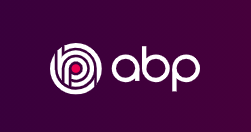
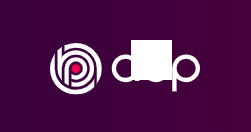
添加功能 1.添加前端滑条功能 2.添加前端演示页面

Changed region(s): [[0.502, 0.303, 0.6972, 0.6061]]

diff --git a/web/abp-captcha/src/component/captcha-slider/captcha-slider.component.ts b/web/abp-captcha/src/component/captcha-slider/captcha-slider.component.ts
@@ -1,15 +1,118 @@
-import { Component, OnInit } from '@angular/core';
+import { NgStyle } from '@angular/common';
+import { Component, Directive, ElementRef, HostListener, OnInit, ViewChild } from '@angular/core';
+import { timeStamp } from 'console';
 
 @Component({
   selector: 'app-captcha-slider',
   templateUrl: './captcha-slider.component.html',
   styleUrls: ['./captcha-slider.component.scss']
 })
+
 export class CaptchaSliderComponent implements OnInit {
+
+  @ViewChild('sliderbtn') 
+  sliderbtn!: ElementRef;
+  @ViewChild('slidercontain') 
+  slidercontain!: ElementRef;
+  public diffX: any;
+  public diffY: any;
+  public left: any;
+  public width: any;
+  private slider = false;
+  private checkData = [0];
+  // 是否验证成功 -1:未开启验证 0:验证中 1:验证成功 2:验证失败
+  public checkSuccess = -1;
+  //public top: any;
 
   constructor() { }
 
   ngOnInit() {
   }
+  
+  @HostListener('mousedown', ['$event'])
+  onMousedown(event: MouseEvent) {
+    console.log('mousedown');
+    this.slider = true;
+    this.diffX = event.clientX - this.sliderbtn.nativeElement.offsetLeft;
+    this.diffY = event.clientY - this.sliderbtn.nativeElement.offsetTop;
+  }
 
+  /**
+   * 鼠标移动
+   * @param event 
+   */
+  @HostListener('mousemove', ['$event'])
+  onMousemove(event: MouseEvent) {
+    console.log('onMousemove');
+    if (!this.slider) {
+      return;
+    }
+    var event = event || window.event;
+    var moveX = event.clientX - this.diffX;
+    var moveY = event.clientY - this.diffY;
+
+    // console.log('moveX:' + moveX + 
+    // 'Width:' + this.sliderbtn.nativeElement.style.width + 
+    // '差值：' + (this.slidercontain.nativeElement.offsetWidth - moveX));
+
+    // // 如果挪出滑条区域，停止滑动
+    // if (moveY <= -15 || moveY >= 15) {
+    //   this.closeSlider();
+    //   return;
+    // }
+
+    // 如果推拽到底
+    if((this.slidercontain.nativeElement.offsetWidth - moveX) < 40){
+      this.width = this.slidercontain.nativeElement.offsetWidth;
+      this.successSlider();
+      return;
+    }
+
+    // 移动
+    if(moveX < 0){
+        moveX = 0
+    } else if(moveX > this.slidercontain.nativeElement.offsetWidth - this.sliderbtn.nativeElement.offsetWidth){
+        moveX = this.slidercontain.nativeElement.offsetWidth - this.sliderbtn.nativeElement.offsetWidth
+    }
+
+    this.left = moveX;
+    this.width = moveX;
+    this.checkData.push(moveX);
+  }
+
+  /**
+   * 鼠标离开
+   * @param event 
+   */
+  @HostListener('mouseup', ['$event'])
+  onMouseup(event: MouseEvent) {
+    var event = event || window.event;
+    var moveX = event.clientX - this.diffX;
+
+    moveX = 0;
+    this.closeSlider();
+    console.log('mouseup:left:' + this.left);
+  }
+
+  /**
+   * 滑条关闭
+   */
+  private closeSlider(){
+    this.left = 0;
+    if (this.checkSuccess != 1) {
+      this.width = 0;
+    }
+    this.slider = false;
+  }
+
+  /**
+   * 验证成功
+   */
+  private successSlider(){
+    this.checkSuccess = 1;
+    console.log('mouseup:left:' + this.checkData);
+    setTimeout(() => {
+      this.closeSlider();
+    }, 1000);
+  }
 }

diff --git a/web/abp-captcha/src/component/captcha-slider/captcha-slider.component.html b/web/abp-captcha/src/component/captcha-slider/captcha-slider.component.html
@@ -1,5 +1,11 @@
-<div id="captcha-slider">
-  <div id="slider-btn">
+<div #slidercontain id="captcha-slider">
+  <div #silderindicator id="slider-indicator" [ngStyle]="{'width.px': width}">
+    <div class="indicator-success" *ngIf="checkSuccess == 1"> 
+       <svg *ngIf="checkSuccess == 1" t="1613468304279" class="icon" viewBox="0 0 1024 1024" version="1.1" xmlns="http://www.w3.org/2000/svg" p-id="2216" width="32" height="32"><path d="M897.5 159.1l-384.4-92-382.7 92-2 415.7v0.4c0 211.8 383.5 383.5 383.5 383.5S895.4 787 895.4 575.2v-0.4l2.1-415.7zM785.1 464h-0.5V575.6c-0.1 28.1-19.4 58.8-35.5 79.6-24.9 32.1-61.2 65.6-107.7 99.6C594 789.4 545.7 817.1 512 835c-33-17.5-79.8-44.4-126.7-78.3-47.3-34.2-84.1-68-109.6-100.5-16.5-21.1-36.2-52.1-36.3-80.6v-0.8l1.6-328.1 272.3-65.4 273 65.3-1.2 217.4z" p-id="2217" fill="#009966"></path><path d="M381.3 437.7l-70.7 70.7 162.2 162.2 258.9-258.9L661 341 472.8 529.2z" p-id="2218" fill="#009966"></path></svg>
+       <span style="margin-left: 4px;">验证成功</span>
+    </div>
+  </div>
+  <div #sliderbtn id="slider-btn" [ngStyle]="{'left.px': left}"  *ngIf="checkSuccess < 1">
     <svg t="1613189988319" class="icon" viewBox="0 0 1024 1024" version="1.1" xmlns="http://www.w3.org/2000/svg" p-id="1127" width="24" height="24">
       <path d="M462.08 192a47.36 47.36 0 0 0 0 64l256 256-256 256a47.36 47.36 0 1 0 64 64l288.64-288.64A50.56 50.56 0 0 0 832 512a47.36 47.36 0 0 0-14.08-33.28L529.28 192a47.36 47.36 0 0 0-67.2 0z" p-id="1128" fill="#707070"></path><path d="M206.08 192a47.36 47.36 0 0 0 0 64l256 256-256 256a47.36 47.36 0 1 0 64 64l291.84-286.08A50.56 50.56 0 0 0 576 512a47.36 47.36 0 0 0-14.08-33.28L273.28 192a47.36 47.36 0 0 0-67.2 0z" p-id="1129" fill="#707070">
       </path>

diff --git a/web/abp-captcha/src/component/captcha-slider/captcha-slider.component.scss b/web/abp-captcha/src/component/captcha-slider/captcha-slider.component.scss
@@ -4,10 +4,36 @@
     background-color: #f7f9fa;
     border:  1px solid #e4e7eb;
     border-radius:  2px;
+    position: relative;
+
+    #slider-indicator {
+        width: 0px;
+        height: 40px;
+        border: 1px solid #3ee01d;
+        //border-right: 0px;
+        background-color: rgb(185, 245, 185);
+        position: absolute;
+        display: flex;
+        flex-direction: column;
+        justify-content: center;
+        align-items: center;
+
+        .indicator-success {
+            display: flex;
+            flex-direction: row;
+            justify-content: center;
+            align-items: center;
+            line-height: 100%;
+            color: green;
+        }
+    }
 
     #slider-btn {
         height: 40px;
         width: 40px;
+        position: absolute;
+        top: 0;
+        left: 0;
         background-color: #fff;
         box-shadow: 0 0 3px rgb(0 0 0 / 30%);
         border: 1px solid #cccccc;
@@ -18,7 +44,7 @@
     }
     
     #slider-btn:hover {
-        background-color: rgb(83, 133, 241);
+        background-color: rgb(132, 235, 132);
         cursor: pointer;
     }
 }

diff --git a/web/abp-captcha/src/component/captcha-jigsaw/captcha-jigsaw.component.scss b/web/abp-captcha/src/component/captcha-jigsaw/captcha-jigsaw.component.scss
@@ -21,8 +21,18 @@
             left:0;
             width: 45px;
             height: 100%;
-            background-color: rgb(69, 127, 236);
             z-index: 9999;
+
+            #operation-img {
+                width: 60px;
+                height: 60px;
+                position: absolute;
+                top: 27%;
+                left:0;
+                -moz-box-shadow:4px 4px 5px #ccc; 
+                -webkit-box-shadow:2px 2px 5px #ccc; 
+                box-shadow:2px 2px 5px rgb(145, 142, 142);
+            }
         }
     }
 

diff --git a/web/abp-captcha/src/component/captcha-jigsaw/captcha-jigsaw.component.html b/web/abp-captcha/src/component/captcha-jigsaw/captcha-jigsaw.component.html
@@ -1,7 +1,9 @@
 <div id="capttcha-jigsaw">
   <div id="jigsaw-imager">
     <img id="imager-check" src="assets/img/1.png" alt="验证图片">
-    <img id="imager-operation" src="" alt="拖拽图片">
+    <div id="imager-operation">
+      <img id="operation-img" src="assets/img/2.png" alt="验证图片">
+    </div>
   </div>
   <div id="jigsaw-operation">
     <div id="operation-btn">

diff --git a/web/abp-captcha/src/component/captcha-slider/silderData.ts b/web/abp-captcha/src/component/captcha-slider/silderData.ts
@@ -1,0 +1,4 @@
+export class SilderData {
+    x : Int16Array;
+    y : Int16Array;
+}
